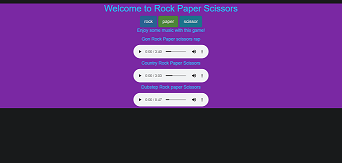
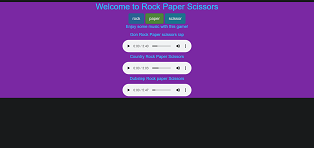
fixed images/ added more images / now working on more links and js error handling

Changed region(s): [[0.0, 0.0, 1.0, 0.3514], [0.3726, 0.3514, 0.6306, 0.6216], [0.0, 0.6216, 1.0, 0.6757]]

diff --git a/index.html b/index.html
@@ -45,19 +45,24 @@
                 </a>
             </div>
             <br>
-            <div class="MyFav2 col-8">
+            <div class="MyFav col-8">
                 <a href="https://rock-paper-scissors-shoot.netlify.app/">
                     <img src="site-preview/rps.png" class="rps">
                 </a>
             </div>
-            <div class="MyFav3 col-8">
+            <div class="MyFav col-8">
                 <a href="https://spongewars.netlify.app/">
-                <img src="" alt="spongewars site">
+                <img src="site-preview/spongewars.png" alt="spongewars site" class="spongewars">
                 </a>
             </div>
-            <div class="MyFav4 col-8">
+            <div class="MyFav col-8">
                 <a href="">
-                    <img src="" alt="animation site">
+                    <img src="site-preview/basic-animation.png" alt="animation site" class="animate">
+                </a>
+            </div>
+            <div class="MyFav col-8">
+                <a href="https://cloud9grooming.herokuapp.com/">
+                    <img src="site-preview/cloud9.png" alt="Cloud9 CBC9-group project" class="cloud">
                 </a>
             </div>
         </div>

diff --git a/index.js b/index.js
@@ -1,0 +1,28 @@
+function makeError(message, status) {
+    let err = message instanceof Error ? message : new Error(message);
+    err.status = status;
+    return err;
+}
+
+  /** handler for 404 routes. */
+
+function error404(req, res, next) {
+    let err = makeError('Not Found', 404);
+    // pass the error to the next piece of middleware
+    return next(err);
+}
+
+  /** general error handler */
+
+function handleRouteErrors(error, req, res, next) {
+    // for actual JS exceptions, log the exception stack
+    if (error.stack) console.error(error.stack);
+
+    res.status(error.status || 500).json({ error: error.message });
+}
+
+module.exports = {
+    makeError,
+    error404,
+    handleRouteErrors
+};

diff --git a/index.css b/index.css
@@ -89,7 +89,7 @@ a:link, a:visited {
     position: relative;
 }
 
-#Myfav {
+#MyFav {
     text-align: center;
     font-size: 20px;
     font-family: sans-serif;
@@ -126,9 +126,38 @@ p .projhead{
     border: 8px solid orange;
 }
 
-#spongewars{
+.spongewars{
     position: relative;
+    padding: 2vh, 1vw;
+    border: 8px solid black;
+
 }
+
+.spongewars:hover{
+    border: 8px solid yellow;
+}
+
+
+.animate{
+    padding: 2vh, 1vw;
+    position: relative;
+    border: 8px solid black;
+}
+
+.animate:hover{
+    border: 8px solid green;
+}
+
+.cloud{
+    padding: 2vh, 1vw;
+    position: relative;
+    border: 8px solid black;
+}
+
+.cloud:hover{
+    border: 8px solid blue;
+}
+
 
 
 #footer {
